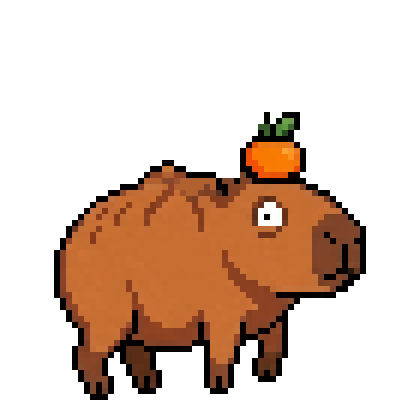
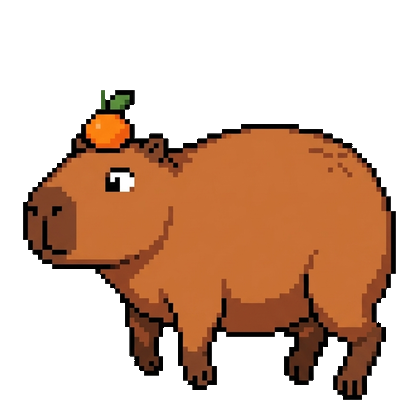
v1.5: 睡觉改鼠标空闲驱动（15s 打盹/30s 睡死/一动就醒），活跃期加权随机行为池+咖啡打工连招，更新 picked_up 素材

diff --git a/pet.html b/pet.html
@@ -14,7 +14,7 @@
 </head>
 <body>
 <script>
-/* ---------- 帧库（18 动作，420x420，已预缩放） ---------- */
+/* ---------- 帧库（18 动作，420x420） ---------- */
 const FRAME_FILES = {
   front:    'frame_01_idle_front.png',
   left:     'frame_02_look_left.png',
@@ -35,115 +35,167 @@ const FRAME_FILES = {
   munching_clover: 'frame_17_munching_clover.png',
   eating_orange: 'frame_18_eating_orange.png',
 };
-const FRAME_SRC = {};
 const img = document.createElement('img');
 img.className = 'on';
 document.body.appendChild(img);
+const FRAME_SRC = {};
 for (const [key, file] of Object.entries(FRAME_FILES)) {
-  const pre = new Image();
-  pre.src = 'ui/frames/' + file;      // 预热缓存
+  new Image().src = 'ui/frames/' + file;              // 预热
   FRAME_SRC[key] = 'ui/frames/' + file;
 }
 
-/* ---------- 帧状态机 ----------
-   优先级：拖动(提溜) > 事件行为(欢呼/爱心) > 随机行为 > 朝向idle */
-let mode = 'idle';        // idle | <行为键名> | dragged
-let look = 'front';       // front | left | right | up
-let holdUntil = 0;        // 行为保持截止时间戳
-let eventHoldUntil = 0;   // 事件动画保持截止
+/* ---------- 节奏参数（?fast=1 测试用短阈值） ---------- */
+const FAST = new URLSearchParams(location.search).has('fast');
+const NOD_AFTER   = (FAST ? 3 : 15) * 1000;   // 鼠标静止 15s → 打瞌睡
+const SLEEP_AFTER = (FAST ? 6 : 30) * 1000;   // 静止 30s → 趴下睡死
+
+/* ---------- 状态机 ----------
+   优先级：拖动(提溜) > 事件动画(欢呼/爱心) > 睡意(鼠标空闲) > 随机行为 > 朝向idle
+   鼠标一动就重新计时并立刻醒来 */
+let mode = 'idle';            // idle | nodding | sleeping | <行为键> | dragged
+let look = 'front';
+let eventHoldUntil = 0;       // 事件动画保持
+let behaviorHoldUntil = 0;    // 随机行为保持
+let nextBehaviorAt = Date.now() + 3500 + Math.random() * 3500;
+let lastMouse = { x: -1, y: -1 };
+let lastActivity = Date.now();
+const dragged = () => mode === 'dragged';
+const busyNow = () => dragged() || Date.now() < eventHoldUntil;
 
 function frameName() {
+  if (dragged) return 'picked_up';
   const now = Date.now();
-  if (mode === 'dragged') return 'picked_up';
-  if (now < eventHoldUntil) return mode;      // 事件动画
-  if (now < holdUntil) return mode;           // 随机行为
+  if (now < eventHoldUntil) return mode;
+  if (mode === 'sleeping') return 'sleeping';
+  if (mode === 'nodding') return 'nodding_off';
+  if (now < behaviorHoldUntil) return mode;
   mode = 'idle';
   return look;
 }
 function render() { img.src = FRAME_SRC[frameName()]; }
 
-/* ---------- 主进程事件：答完欢呼 / 打开问答送爱心 ---------- */
-window.buddy.onPetEvent((e) => {
-  const now = Date.now();
-  if (now < eventHoldUntil) return;           // 不打断进行中的事件动画
-  if (e === 'cheer') { mode = 'cheering'; eventHoldUntil = now + 1500; }
-  else if (e === 'greet') { mode = 'offering_heart'; eventHoldUntil = now + 1500; }
-  render();
-});
-
-/* ---------- 鼠标朝向（idle 时生效） ---------- */
+/* ---------- 鼠标朝向 + 空闲检测（主进程 120ms 推送全局光标） ---------- */
 window.buddy.onCursor(({ mx, my, px, py }) => {
-  const now = Date.now();
-  if (now < holdUntil || now < eventHoldUntil || mode === 'dragged') return;
-  const cx = px + 55, cy = py + 55;
-  const dx = mx - cx, dy = my - cy;
-  let want = 'front';
-  if (dx < -55) want = 'left';
-  else if (dx > 55) want = 'right';
-  else if (dy < -75) want = 'up';
-  if (want !== look) { look = want; render(); }
+  const moved = mx !== lastMouse.x || my !== lastMouse.y;
+  lastMouse = { x: mx, y: my };
+  if (moved) {
+    lastActivity = Date.now();
+    if (mode === 'sleeping' || mode === 'nodding') wake();     // 鼠标一动就醒
+  }
+  if (mode === 'idle') {                                        // 朝向跟随
+    const cx = px + 55, cy = py + 55;
+    const dx = mx - cx, dy = my - cy;
+    let want = 'front';
+    if (dx < -55) want = 'left';
+    else if (dx > 55) want = 'right';
+    else if (dy < -75) want = 'up';
+    if (want !== look) { look = want; render(); }
+  }
 });
 
-/* ---------- 随机行为池（键, 时长ms, 权重, 连招下一帧） ---------- */
-const BEHAVIORS = [
+function wake() {
+  mode = 'cheering';                       // 醒来先伸个懒腰（欢呼帧代替）
+  render();
+  setTimeout(() => {
+    if (mode === 'cheering') { mode = 'idle'; look = 'front'; render(); }
+  }, 900);
+  lastActivity = Date.now();
+  behaviorHoldUntil = Date.now() + 3000;
+  nextBehaviorAt = Date.now() + 3500 + Math.random() * 3500;
+}
+
+/* ---------- 活跃期随机行为池 ---------- */
+const IDLE_BEHAVIORS = [
   ['walking',         3000, 3, null],
   ['fast_running',    2000, 1, null],
-  ['nodding_off',     3200, 2, 'sleeping'],      // 打瞌睡 → 趴下睡死
-  ['spacing_out',     4000, 2, null],
-  ['orange_balancing',2500, 2, null],
   ['munching_clover', 3000, 2, null],
   ['eating_orange',   3000, 2, null],
-  ['drinking_coffee', 2500, 1, 'typing_laptop'],  // 咖啡续命 → 打工
-  ['typing_laptop',   5000, 1, null],
-  ['hot_spring',      8000, 1, null],
+  ['spacing_out',     3500, 2, null],
+  ['orange_balancing',2500, 2, null],
+  ['drinking_coffee', 2500, 1, 'typing_laptop'],   // 咖啡续命 → 打工
+  ['typing_laptop',   4500, 1, null],
+  ['hot_spring',      6000, 0.5, null],            // 彩蛋级
 ];
-const CHAIN_DUR = { sleeping: 6000, typing_laptop: 5000 };
+const CHAIN_DUR = { typing_laptop: 4500 };
 function weightedPick() {
-  const total = BEHAVIORS.reduce((s, b) => s + b[2], 0);
+  const total = IDLE_BEHAVIORS.reduce((s, b) => s + b[2], 0);
   let r = Math.random() * total;
-  for (const b of BEHAVIORS) { if ((r -= b[2]) < 0) return b; }
-  return BEHAVIORS[0];
+  for (const b of IDLE_BEHAVIORS) { if ((r -= b[2]) < 0) return b; }
+  return IDLE_BEHAVIORS[0];
 }
-function scheduleBehavior() {
-  setTimeout(() => {
-    if (mode === 'idle' && Date.now() >= eventHoldUntil) {
+
+/* ---------- 主循环（500ms tick） ---------- */
+setInterval(() => {
+  const now = Date.now();
+  if (dragged() || now < eventHoldUntil) return;
+
+  const idleMs = now - lastActivity;
+  if (idleMs > SLEEP_AFTER) {                       // 睡死
+    if (mode !== 'sleeping') { mode = 'sleeping'; render(); }
+    return;
+  }
+  if (idleMs > NOD_AFTER) {                         // 打瞌睡
+    if (mode !== 'nodding') { mode = 'nodding'; render(); }
+    return;
+  }
+  // 活跃期：随机行为
+  if (now >= behaviorHoldUntil) {
+    if (mode !== 'idle') { mode = 'idle'; render(); }
+    if (now >= nextBehaviorAt) {
       const [name, dur, _w, chain] = weightedPick();
       mode = name;
-      holdUntil = Date.now() + dur;
+      behaviorHoldUntil = now + dur;
+      nextBehaviorAt = behaviorHoldUntil + 3500 + Math.random() * 4000;
       render();
       if (chain) {
         setTimeout(() => {
-          if (mode === name) {            // 中途没被打断才接连招
+          if (mode === name) {
             mode = chain;
-            holdUntil = Date.now() + CHAIN_DUR[chain];
+            behaviorHoldUntil = Date.now() + CHAIN_DUR[chain];
             render();
           }
         }, dur);
       }
     }
-    scheduleBehavior();
-  }, 4000 + Math.random() * 7000);
-}
-scheduleBehavior();
+  }
+}, 500);
 
-/* ---------- 拖动：被提溜起来 ---------- */
+/* ---------- 事件：答完欢呼 / 打开问答送爱心 ---------- */
+window.buddy.onPetEvent((e) => {
+  const now = Date.now();
+  if (now < eventHoldUntil) return;
+  if (e === 'cheer') {
+    mode = 'cheering';
+    eventHoldUntil = now + 1500;
+    lastActivity = now;
+  } else if (e === 'greet') {
+    mode = 'offering_heart';
+    eventHoldUntil = now + 1500;
+    lastActivity = now;
+  }
+  render();
+});
+
+/* ---------- 拖动：被提溜（拖动全程算活动，不会睡着） ---------- */
 let down = null, dragging = false;
 document.addEventListener('mousedown', (e) => {
   down = { x: e.clientX, y: e.clientY };
   dragging = false;
+  lastActivity = Date.now();
   window.buddy.petDragStart(e.screenX, e.screenY);
 });
 document.addEventListener('mousemove', (e) => {
+  lastActivity = Date.now();
   if (!down) return;
-  const dx = e.clientX - down.x, dy = e.clientY - down.y;
-  if (dragging || Math.hypot(dx, dy) > 5) {
+  const moved = Math.hypot(e.clientX - down.x, e.clientY - down.y);
+  if (dragging || moved > 5) {
     if (!dragging) { dragging = true; mode = 'dragged'; render(); }
     window.buddy.petDragMove(e.screenX, e.screenY);
   }
 });
 document.addEventListener('mouseup', () => {
   if (down && !dragging) window.buddy.petClick();
-  if (dragging) { mode = 'idle'; render(); }
+  if (dragging) { mode = 'idle'; look = 'front'; render(); }
   window.buddy.petDragEnd();
   down = null;
   dragging = false;

diff --git a/main.js b/main.js
@@ -197,7 +197,8 @@ function createPetWindow() {
   });
   petWin.setAlwaysOnTop(true, 'floating');
   if (isMac) petWin.setVisibleOnAllWorkspaces(true, { visibleOnFullScreen: true });
-  petWin.loadFile(path.join(__dirname, 'pet.html'));
+  petWin.loadFile(path.join(__dirname, 'pet.html'),
+    process.env.GB_FAST ? { query: { fast: '1' } } : undefined);
 
   // 初始位置：主屏右上角
   const wa = screen.getPrimaryDisplay().workArea;
@@ -205,6 +206,9 @@ function createPetWindow() {
   console.log(`[gemini-buddy] pet 初始=(${wa.x + wa.width - 130}, ${wa.y + 70}) workArea=${wa.width}x${wa.height}+${wa.x}+${wa.y}`);
   petWin.webContents.on('console-message', (_e, _lvl, msg) => {
     fs.appendFileSync('/tmp/pet-debug.log', `[${_lvl}] ${msg}\n`);
+  });
+  petWin.webContents.on('console-message', (_e, level, msg, line, src) => {
+    if (level >= 2 || msg.includes('[pet]')) console.log(`[pet-console:${level}] ${msg} (${src.split('/').pop()}:${line})`);
   });
   petWin.showInactive();         // 显示但不夺焦点
   petWin.on('move', absorbPetDragCorrection);

diff --git a/README.md b/README.md
@@ -1,6 +1,6 @@
 ---
 title: gemini-buddy 使用说明
-version: v1.4
+version: v1.5
 author: 胡嘉
 date: 2026-09-19
 ---
@@ -24,6 +24,7 @@ date: 2026-09-19
 | v1.2 | 2026-09-19 | 胡嘉 | 动作库扩到 18 帧（素材全量归一 420x420）：新增欢呼/放空/打工/喝咖啡/泡温泉/打瞌睡/顶橘/快跑/捧爱心/嚼三叶草/吃橘子；随机行为带权重和连招（打瞌睡→睡死、喝咖啡→打工）；事件动画：答完欢呼、开问答送爱心、拖动时"被提溜" |
 | v1.3 | 2026-09-19 | 胡嘉 | 修拖动到屏幕边缘鼠标与宠物位置漂移：拖动改绝对坐标计算（按下时窗口位置+鼠标净位移），不再用增量累加 |
 | v1.4 | 2026-09-19 | 胡嘉 | 修拖到台前调度图标区宠物闪烁：拖动范围 clamp 在工作区内 6px 边距；系统"弹回"通过 move 事件吸收进拖动基准，贴边稳定不闪不漂 |
+| v1.5 | 2026-09-19 | 胡嘉 | 睡觉改为鼠标空闲驱动：静止 15s 打瞌睡、30s 趴下睡死、一动就醒来欢呼；更新 picked_up 素材；活跃期随机行为池（踱步/吃草/吃橘子/放空/顶橘/快跑/咖啡→打工连招/温泉彩蛋） |
 
 ## 链接
 - 无
